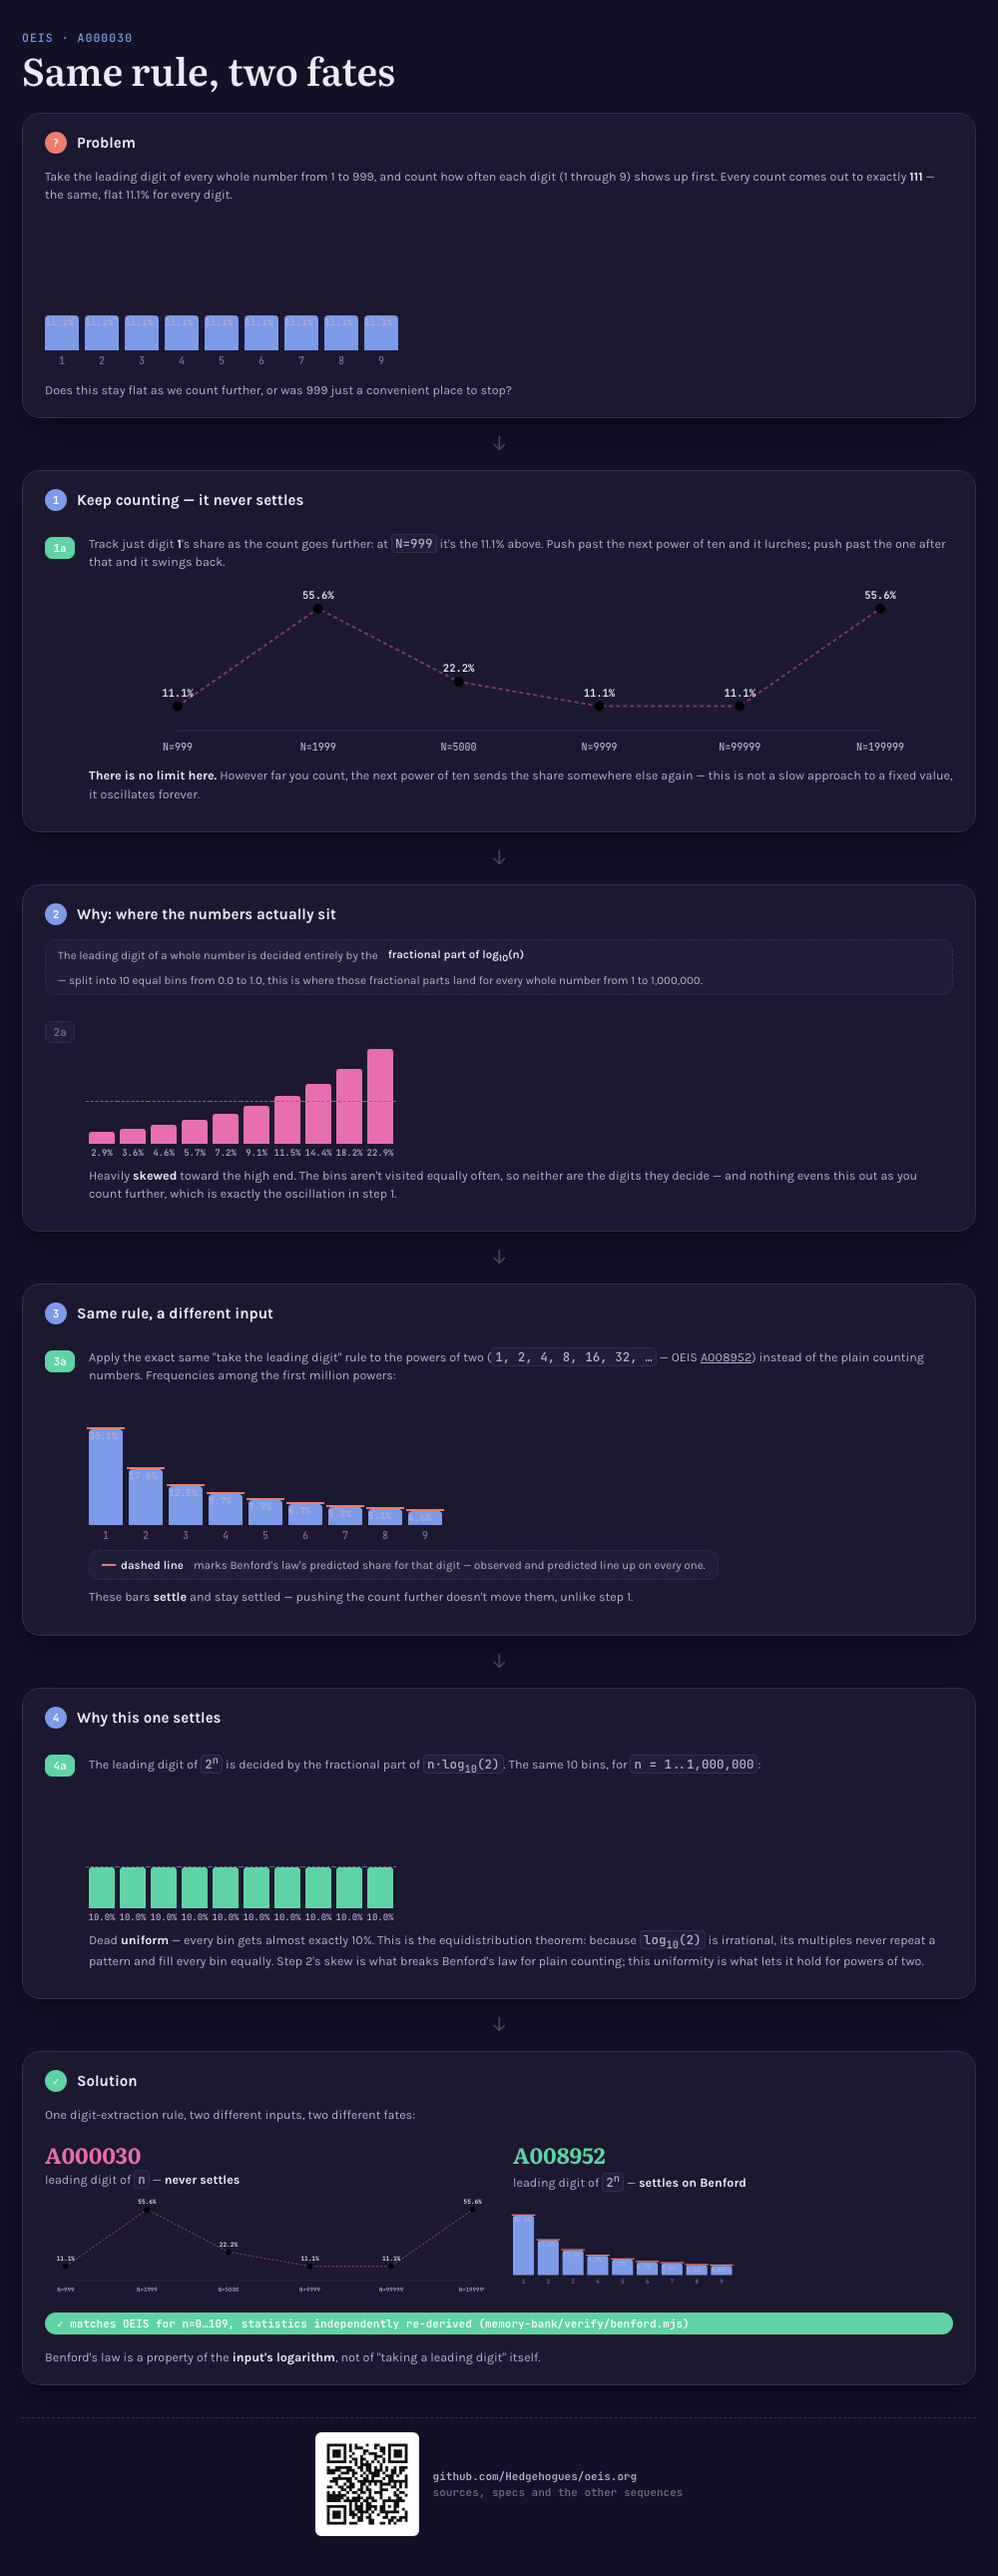
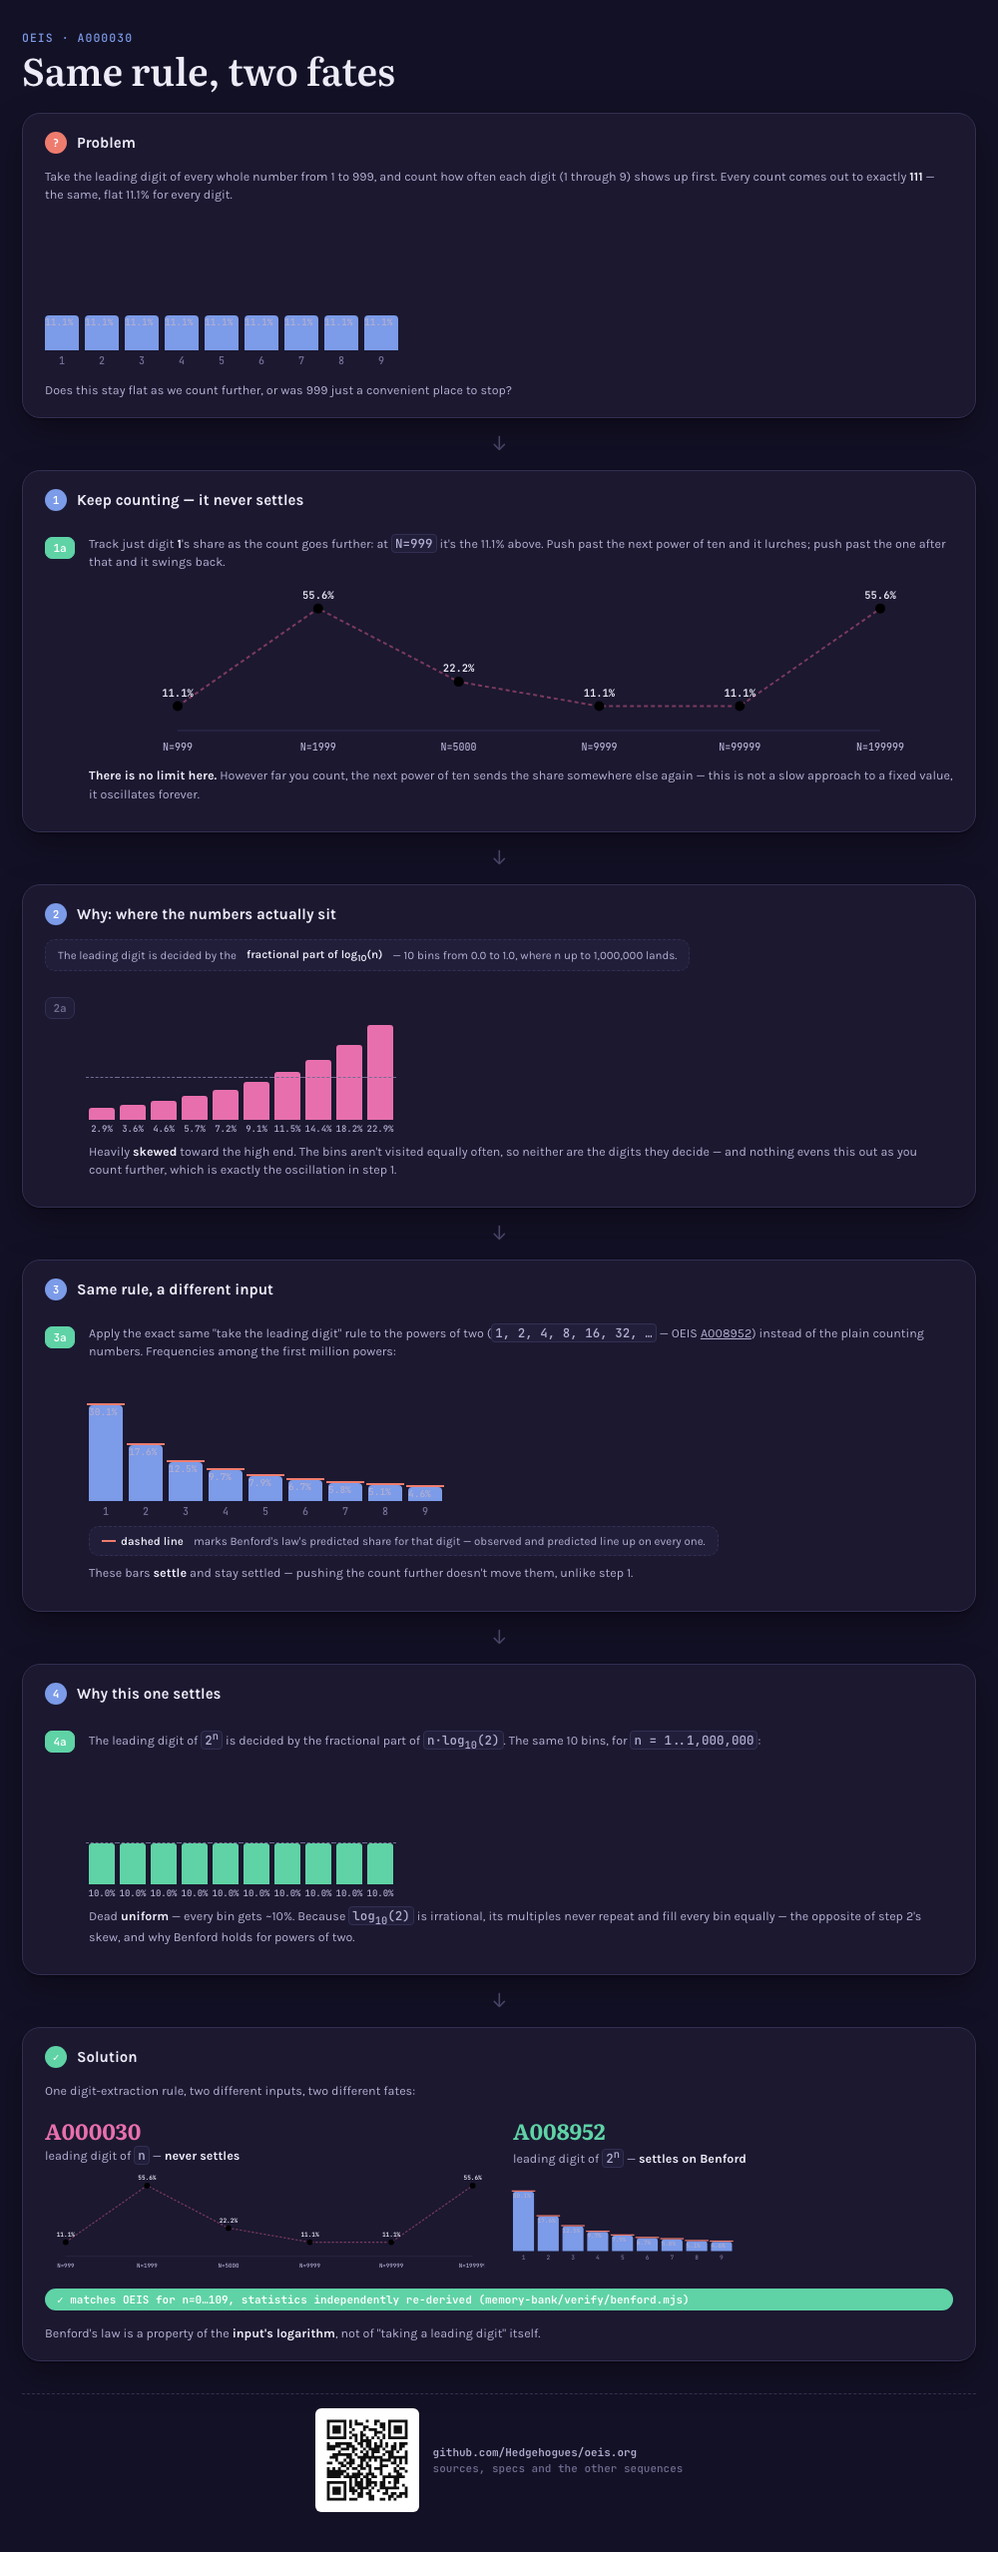
Trim A000030's legend and narration to fit principle 17's new budget
A000030 landed concurrently with the previous commit's caption-length check and was never
checked against it: one legend ran 41 words, and its 13 step captions averaged 25.2 -- both
over budget. Trimmed without cutting any step or device; re-captured the touched screenshots.

diff --git a/memory-bank/visualizations/A000030/viz.html b/memory-bank/visualizations/A000030/viz.html
@@ -196,11 +196,9 @@
           fractional part of <code>n·log<sub>10</sub>(2)</code>. The same 10 bins, for
           <code>n = 1..1,000,000</code>:</p>
         <div class="decbars" id="s4a"></div>
-        <p class="subcap">Dead <b>uniform</b> — every bin gets almost exactly 10%. This is the
-          equidistribution theorem: because <code>log<sub>10</sub>(2)</code> is irrational, its
-          multiples never repeat a pattern and fill every bin equally. Step 2's skew is what breaks
-          Benford's law for plain counting; this uniformity is what lets it hold for powers of
-          two.</p>
+        <p class="subcap">Dead <b>uniform</b> — every bin gets ~10%. Because
+          <code>log<sub>10</sub>(2)</code> is irrational, its multiples never repeat and fill every
+          bin equally — the opposite of step 2's skew, and why Benford holds for powers of two.</p>
       </div>
     </div>
   </section>
@@ -348,9 +346,8 @@
     });
   }
   document.getElementById('skewLegend').innerHTML =
-    'The leading digit of a whole number is decided entirely by the <b>fractional part of log<sub>10</sub>(n)</b> ' +
-    '— split into 10 equal bins from 0.0 to 1.0, this is where those fractional parts land for ' +
-    'every whole number from 1 to 1,000,000.';
+    'The leading digit is decided by the <b>fractional part of log<sub>10</sub>(n)</b> — 10 bins ' +
+    'from 0.0 to 1.0, where n up to 1,000,000 lands.';
   decileBars(document.getElementById('s2a'), function(n){ return Math.log10(n)%1; }, 1000000, 'skew');
   decileBars(document.getElementById('s4a'), function(n){ return (n*LOG10_2)%1; }, 1000000, 'uniform');
 
